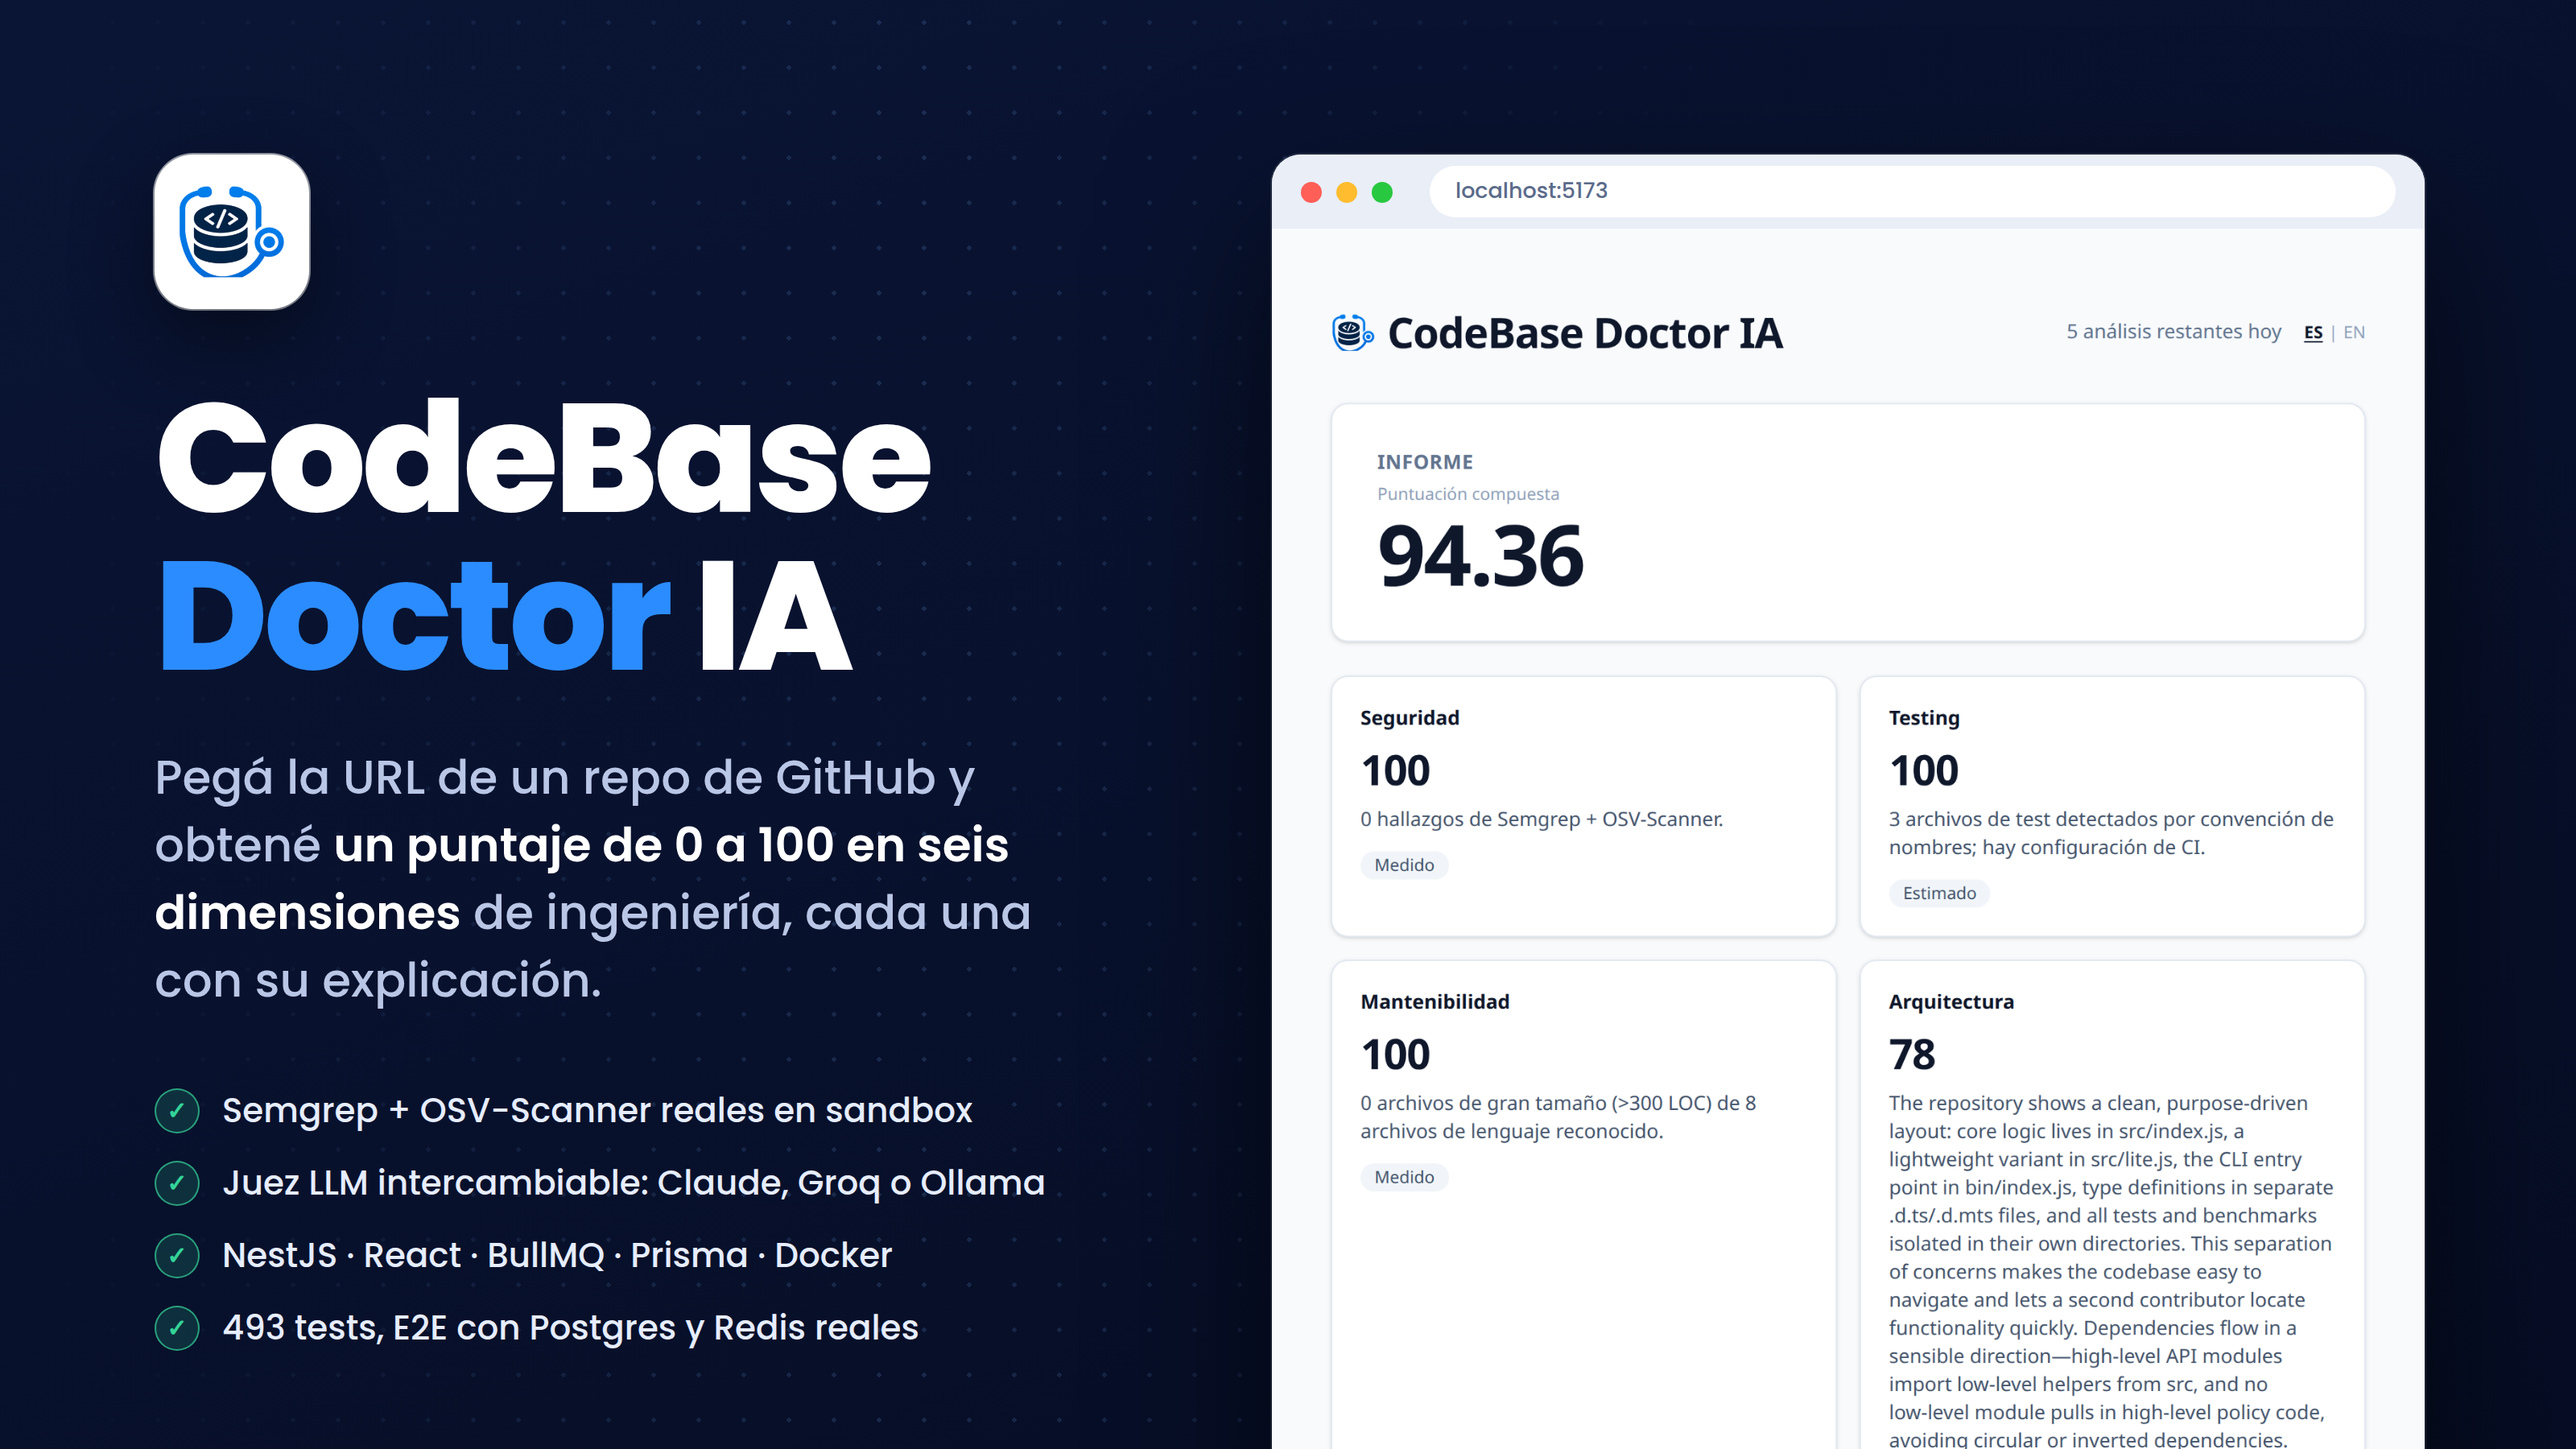
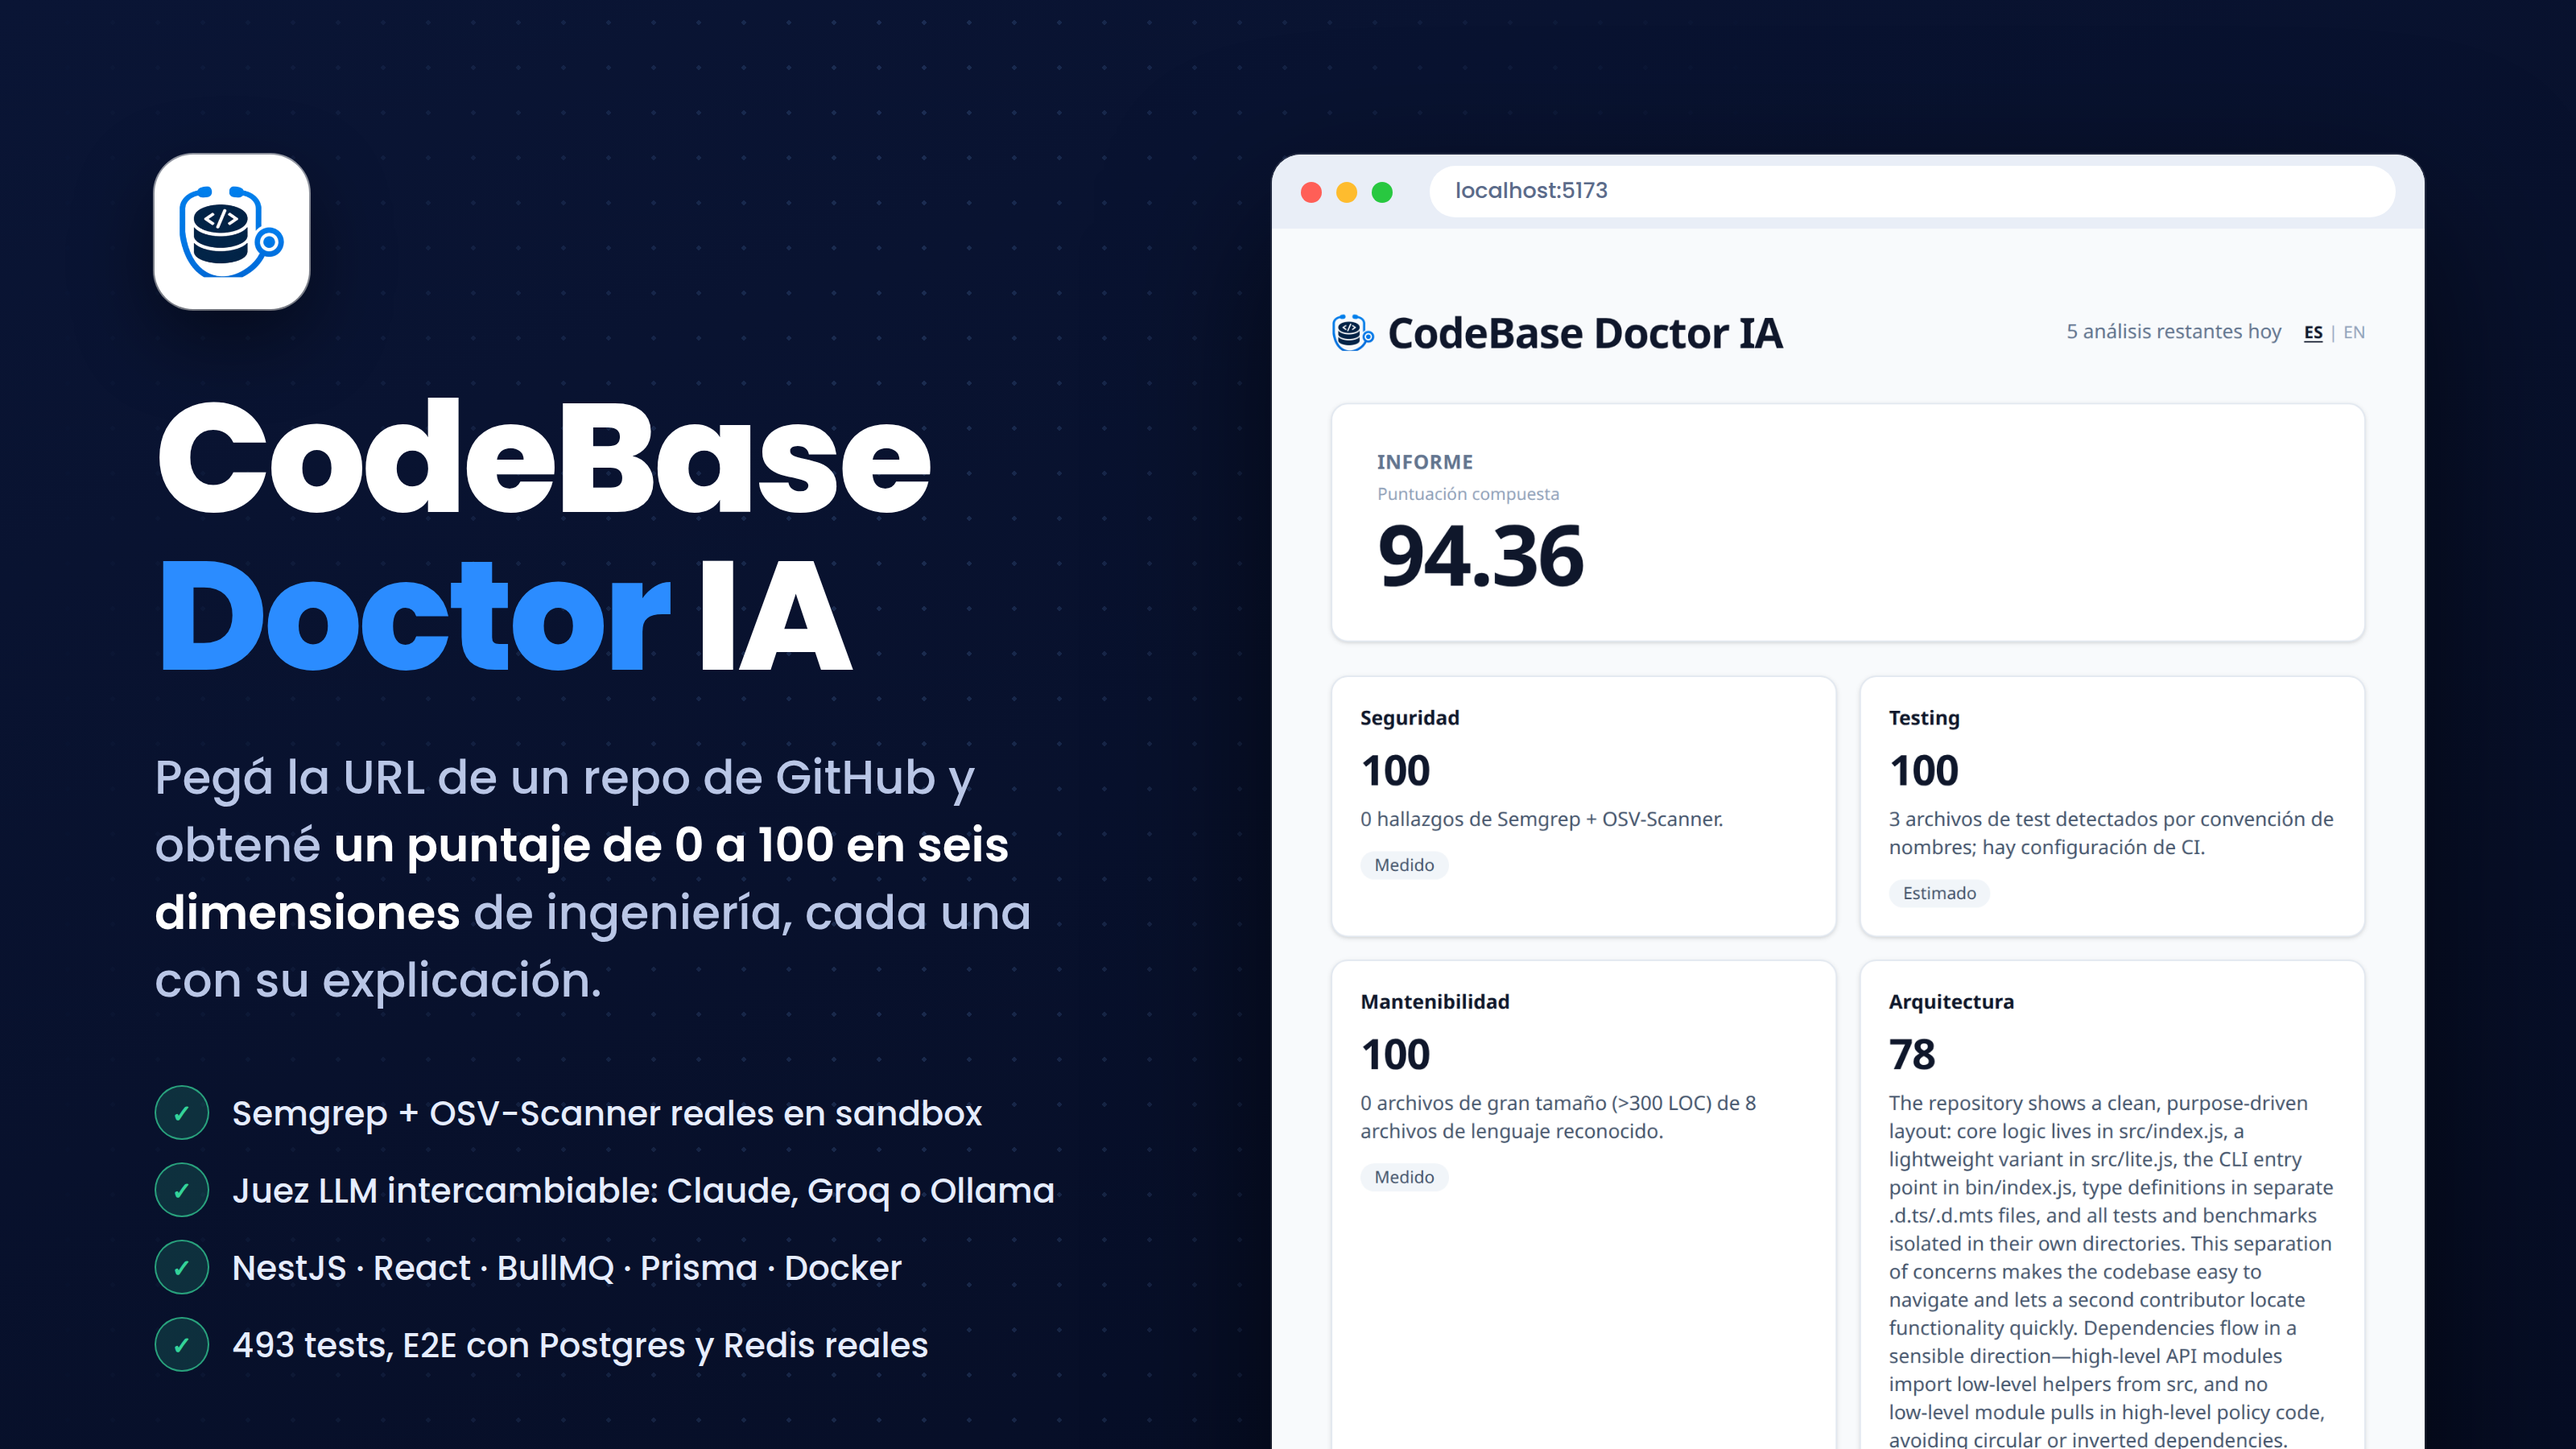
fix(portfolio): más aire en los círculos de la portada
El ✓ de 15 px dentro de un círculo de 28 px dejaba ~6 px de margen, menos de los 8 px mínimos para texto dentro de un contenedor. Los círculos pasan a 34 px y se regenera cover.png.

Changed region(s): [[0.0625, 0.7467, 0.4062, 0.9644]]

diff --git a/scripts/portfolio/cover.html b/scripts/portfolio/cover.html
@@ -50,7 +50,7 @@
   .chips { margin-top: 44px; display: grid; gap: 14px; }
   .chip { display: flex; align-items: center; gap: 14px; font-size: 21px; font-weight: 500; color: #e6edff; }
   .chip i {
-    flex: none; width: 28px; height: 28px; border-radius: 50%;
+    flex: none; width: 34px; height: 34px; border-radius: 50%;
     background: rgba(52, 211, 153, .16); border: 1.5px solid rgba(52, 211, 153, .7);
     display: grid; place-items: center; color: var(--ok); font-style: normal; font-size: 15px; font-weight: 700;
   }
